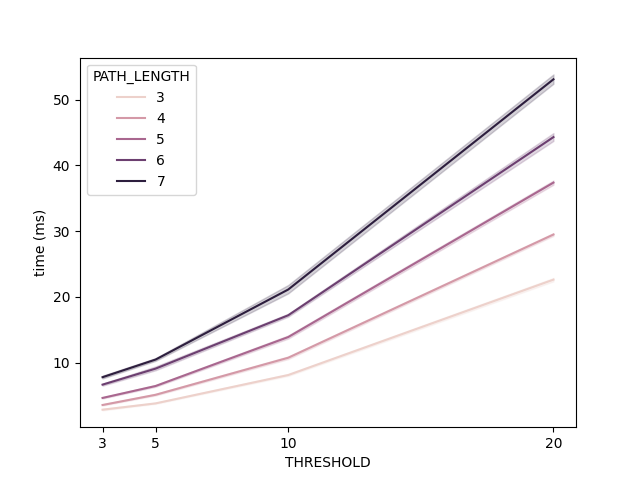
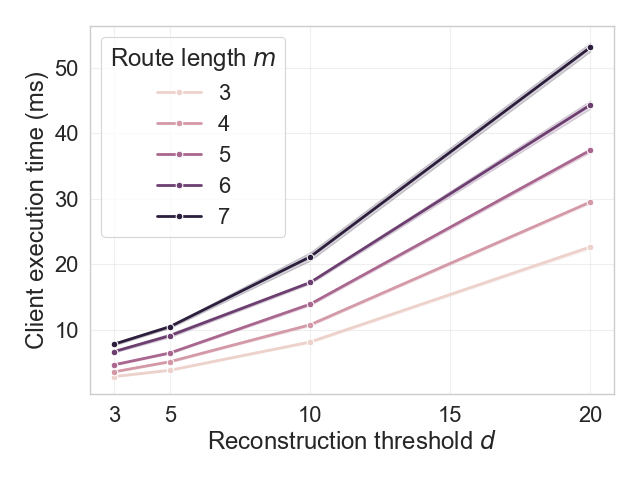
benchmark: tables -> figures

diff --git a/src/Python_Version/.benchmark/comparison_time.py b/src/Python_Version/.benchmark/comparison_time.py
@@ -36,7 +36,7 @@ def add_aggregate_function(df, new_name, functions, keep=False):
     return pd.concat([df, agg], ignore_index=True)
     
 
-ORIGINAL_RESULTS = ".benchmark/data/original_sphinx_time.csv"
+# ORIGINAL_RESULTS = ".benchmark/data/original_sphinx_time.csv"
 OUR_RESULTS = ".benchmark/data/timing.csv"
 
 df = pd.read_csv(OUR_RESULTS)
@@ -51,90 +51,104 @@ df = df[['entity', 'entity_id', 'function', 'time', 'PATH_LENGTH', 'THRESHOLD', 
 df = add_aggregate_function(df,"route sampling", ['query_route', 'aggregate_shares', 'shared_secret_rerandomization'])
 df = add_aggregate_function(df,"client", ["build", "route sampling"], keep=True)
 
-df = df[df['PATH_LENGTH'] >= 3]
-df = df[df['PATH_LENGTH'] <= 7]
-df = df[df['THRESHOLD'] <= 20]
+#############
+## boxplot ##
+#############
 
-client_df = df[df['function']=='client']
+def avg_store_share(sttp):
+    store = sttp[sttp['function'] == 'store_share']
+    store = store.sort_index().reset_index(drop=True)
+    # regroup by 100 (because receive 100 shares and after sort them)
+    store['entity_id'] = store.index // 100
+    store = store.groupby(['entity','entity_id','function','PATH_LENGTH','THRESHOLD']).sum().reset_index()
+
+    store['entity']='STTP'
+    store['function']='setup'
+    
+    return pd.concat([store, sttp[sttp['function'] == 'send_share']], ignore_index=True)
+
+
+df = df[['entity','entity_id','function','time','PATH_LENGTH','THRESHOLD']]
+
+client = df[df['entity']=='CLIENT']
+sttp   = df[df['entity']=='STTP']
+mix    = df[df['entity']=='MIX']
+
+client = client[client['function'].isin(['route sampling', 'build'])]
+sttp   = sttp[sttp['function'].isin(['store_share', 'send_share'])]
+mix    = mix[mix['function'].isin(['setup', 'process_header'])]
+
+sttp = avg_store_share(sttp)
+
+client['role'] = 'Client'
+mix['role'] = 'Node'
+sttp['role'] = 'STTP'
+
+
+plot_df = pd.concat([
+    client[['role','function','time','PATH_LENGTH','THRESHOLD']],
+    mix[['role','function','time','PATH_LENGTH','THRESHOLD']],
+    sttp[['role','function','time','PATH_LENGTH','THRESHOLD']]
+], ignore_index=True)
+
+plot_df.replace({'function': {'route sampling': 'Route', 'build': 'Packet', 'setup': 'Setup', 'process_header': 'Process', 'send_share': 'Route'}}, inplace=True)
+
+sns.set_theme(style="whitegrid", context="paper", font_scale=1.8)
+
+g = sns.catplot(
+    data=plot_df,
+    kind="box",
+    col="role",        
+    x="function",
+    y="time",
+    sharex=False,
+    sharey=True,        # IMPORTANT for log comparison
+    height=4,
+    aspect=1,
+    showfliers=False
+)
+
+g.set_axis_labels("", "Execution time (ms)")
+g.set_titles("{col_name}")
+
+# Apply log scale + styling per subplot
+for ax in g.axes.flat:
+    ax.set_yscale("log")
+    ax.tick_params(axis='x', rotation=0)  # horizontal labels
+    ax.set_xlabel("")  # remove repeated "function" label
+
+plt.tight_layout()
+plt.savefig(".benchmark/results/boxplot.png")
+plt.clf()
+
+##############
+## lineplot ##
+##############
+
+client = df[df['entity']=='CLIENT']
+client_time = client[client['function']=='client']
+sns.set_theme(style="whitegrid", context="paper", font_scale=1.8)
 
 # Path Length
 x, hue = "PATH_LENGTH", 'THRESHOLD'
-sns.lineplot(data=client_df, x=x, y="time", hue=hue)
-plt.xticks(list(set(client_df[x])))
-plt.ylabel("time (ms)")
+sns.lineplot(data=client_time, x=x, y="time", hue=hue, marker="o", linewidth=2)
+plt.xticks(range(3,8))
+plt.xlabel("Route length $m$ (hops)")
+plt.ylabel("Client execution time (ms)")
+plt.legend(title="Threshold $d$")
+plt.grid(True, alpha=0.3)
+plt.tight_layout()
 plt.savefig(".benchmark/results/path_length.png")
-
 plt.clf()
 
 # Threshold
 x, hue = 'THRESHOLD', "PATH_LENGTH"
-sns.lineplot(data=client_df, x=x, y="time", hue=hue)
-plt.xticks(list(set(client_df[x])))
-plt.ylabel("time (ms)")
+sns.lineplot(data=client_time, x=x, y="time", hue=hue, marker="o", linewidth=2)
+plt.xticks([3, 5, 10, 15, 20])
+plt.xlabel("Reconstruction threshold $d$")
+plt.ylabel("Client execution time (ms)")
+plt.legend(title="Route length $m$")
+plt.grid(True, alpha=0.3)
+plt.tight_layout()
 plt.savefig(".benchmark/results/threshold.png")
-
-client_df = client_df[['time', 'PATH_LENGTH', 'THRESHOLD']]
-
-client_df=client_df.groupby(['PATH_LENGTH', 'THRESHOLD']).mean().reset_index()
-client_df = client_df.pivot(
-    index="PATH_LENGTH",
-    columns="THRESHOLD",
-    values="time"
-)
-# latex = client_df.to_latex(
-#     index=True,
-#     float_format="%.3f"
-# )
-
-# print(latex)
-
-
-## PROPORTION ##
-################
-
-df = df[['entity','function','time','PATH_LENGTH','THRESHOLD']]
-client = df[df['entity']=='CLIENT']
-sttp = df[df['entity']=='STTP']
-mix = df[df['entity']=='MIX']
-mix = mix[mix['function'].isin(['setup', 'process_header'])]
-
-### client
-print("\n Client")
-build_means = client[client['function']=='build'].groupby(['entity','function','THRESHOLD', 'PATH_LENGTH'])['time'].mean()
-route_means = client[client['function']=='route sampling'].groupby(['entity','function','THRESHOLD', 'PATH_LENGTH'])['time'].mean()
-print(f"Build time: {build_means.min()} - {build_means.max()}")
-print(f"Route time: {route_means.min()} - {route_means.max()}")
-#sttp.groupby(['entity','function','PATH_LENGTH','THRESHOLD']).mean()
-
-grouped = client.groupby(['entity','function','PATH_LENGTH', 'THRESHOLD']).mean()
-df_pivot = grouped.reset_index().pivot_table(
-    index=['entity','PATH_LENGTH','THRESHOLD'],
-    columns='function',
-    values='time'
-)
-df_pivot['route sampling %'] = df_pivot['route sampling'] / df_pivot['client'] * 100
-df_pivot['build %'] = df_pivot['build'] / df_pivot['client'] * 100
-
-tot_build = sum(client[client['function']=="build"]['time'])
-tot_route = sum(client[client['function']=="route sampling"]['time'])
-print(f"Packet construction: {round(100 * tot_build / (tot_build + tot_route))} % of client time")
-print(f"Route sampling: {round(100 * tot_route / (tot_build + tot_route))} % of client time")
-
-
-
-### Nodes
-print("\n Nodes")
-setup_means = mix[mix['function']=='setup'].groupby(['entity','function','THRESHOLD', 'PATH_LENGTH'])['time'].mean()
-process_means = mix[mix['function']=='process_header'].groupby(['entity','function','THRESHOLD', 'PATH_LENGTH'])['time'].mean()
-print(f"Setup time: {setup_means.min()} - {setup_means.max()}")
-print(f"Header processing: {process_means.min()} - {process_means.max()}")
-#mix.groupby(['entity','function','PATH_LENGTH','THRESHOLD']).mean()
-
-
-### STTP
-print("\n STTP")
-setup_means = sttp[sttp['function']=='send_share'].groupby(['entity','function','THRESHOLD', 'PATH_LENGTH'])['time'].mean()
-route_means = sttp[sttp['function']=='store_share'].groupby(['entity','function','THRESHOLD', 'PATH_LENGTH'])['time'].mean()
-print(f"STTP Setup time: {setup_means.min()} - {setup_means.max()}")
-print(f"STTP Route time: {route_means.min()} - {route_means.max()}")
-#sttp.groupby(['entity','function','PATH_LENGTH','THRESHOLD']).mean()
+plt.clf()
